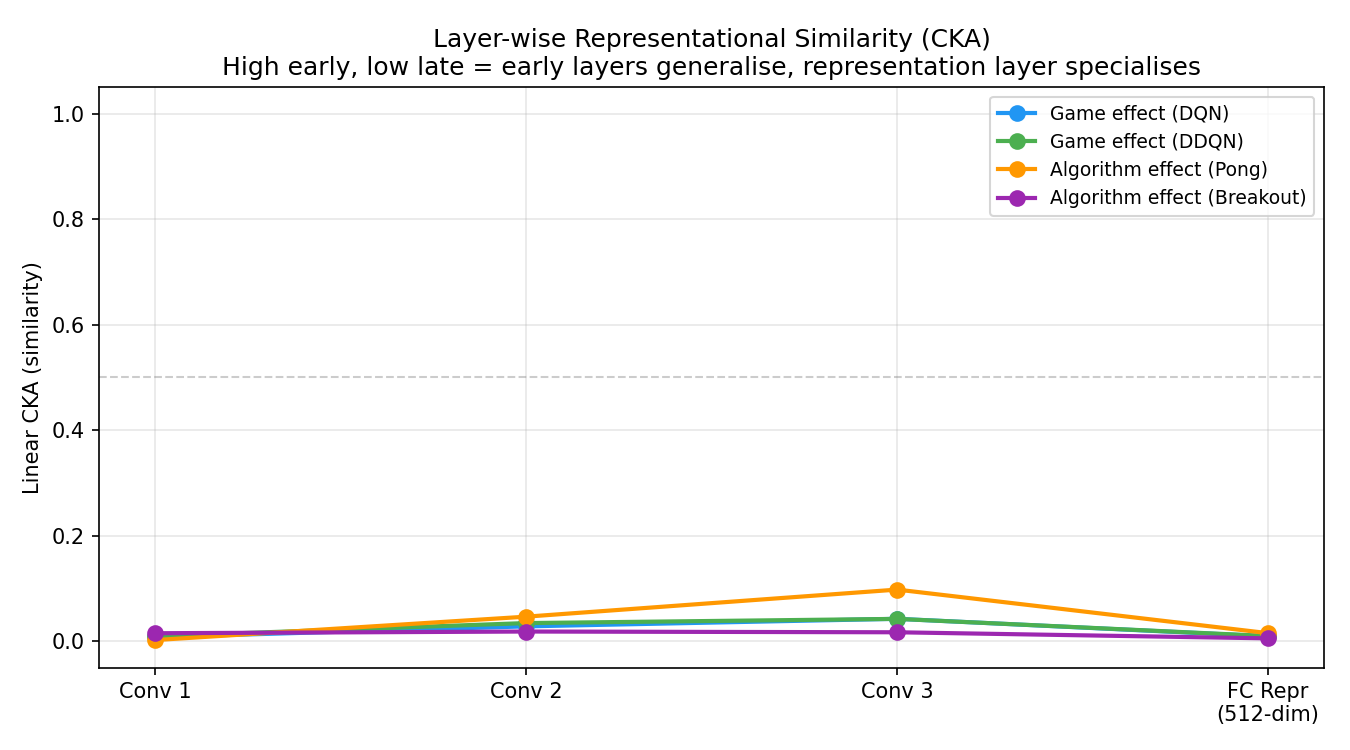
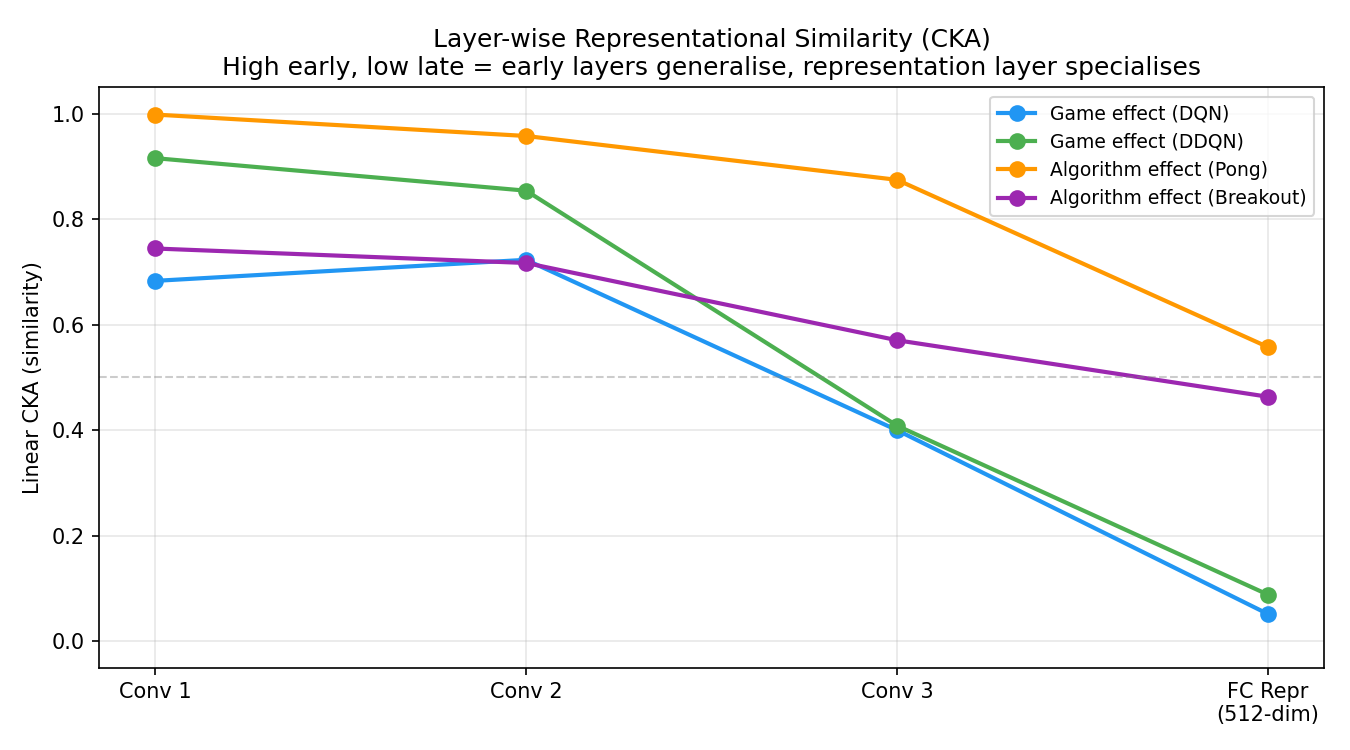
Fix CKA methodology — use shared frames, add actual numbers to report
Bug: each agent was evaluated on its own game's frames, making CKA meaningless
     (comparing activations on different inputs → all values ~0)
Fix: collect shared Pong frames with random actions, run ALL networks on same frames

Corrected CKA values (game effect, DDQN):
  conv1=0.92, conv2=0.85, conv3=0.41, fc_repr=0.09
  Clear hierarchy confirmed: early layers generalise, fc_repr specialises

Report updated with actual CKA numbers in results and discussion sections

diff --git a/analysis/layer_similarity.py b/analysis/layer_similarity.py
@@ -73,16 +73,38 @@ def linear_cka(X: np.ndarray, Y: np.ndarray) -> float:
 # ─────────────────────────────────────────────────────────────────────────────
 # Activation collection
 # ─────────────────────────────────────────────────────────────────────────────
-def collect_layer_activations(
+def collect_frames(env_id: str, n_frames: int, seed: int = 99) -> list:
+    """
+    Collect n_frames observations from env_id using random actions.
+    Returns a list of (4, 84, 84) uint8 numpy arrays.
+
+    Using random actions ensures diverse coverage of the state space
+    and avoids any dependence on a specific agent's policy.
+    """
+    env = make_atari_env(env_id, seed=seed)
+    obs, _ = env.reset()
+    frames = []
+    while len(frames) < n_frames:
+        frames.append(obs.copy())
+        action = env.action_space.sample()
+        obs, _, terminated, truncated, _ = env.step(action)
+        if terminated or truncated:
+            obs, _ = env.reset()
+    env.close()
+    return frames[:n_frames]
+
+
+def collect_activations_on_frames(
     checkpoint_path: str,
-    env_id:          str,
     n_actions:       int,
-    n_steps:         int          = 1000,
+    frames:          list,
     device:          torch.device = torch.device("cpu"),
-    seed:            int          = 99,
 ) -> dict:
     """
-    Load a checkpoint and collect activations at all four layers.
+    Run a checkpoint on a FIXED set of frames and collect activations.
+
+    Both networks in a comparison must use the same frames — this is the
+    key requirement for CKA to be meaningful.
 
     Conv layers are flattened to (N, C*H*W) for CKA computation.
 
@@ -99,36 +121,25 @@ def collect_layer_activations(
     def make_hook(name):
         def hook(module, input, output):
             act = output.detach().cpu().numpy()
-            if act.ndim == 4:                        # conv: (B, C, H, W)
-                act = act.reshape(act.shape[0], -1)  # → (B, C*H*W)
+            if act.ndim == 4:
+                act = act.reshape(act.shape[0], -1)
             storage[name].append(act)
         return hook
 
     # Conv Sequential layout: [Conv2d, ReLU, Conv2d, ReLU, Conv2d, ReLU]
-    #                indices:     0       1     2       3     4       5
     handles.append(model.conv[1].register_forward_hook(make_hook("conv1")))
     handles.append(model.conv[3].register_forward_hook(make_hook("conv2")))
     handles.append(model.conv[5].register_forward_hook(make_hook("conv3")))
     handles.append(model.fc_repr.register_forward_hook(make_hook("fc_repr")))
 
-    env = make_atari_env(env_id, seed=seed)
-    obs, _ = env.reset()
-
     with torch.no_grad():
-        for _ in range(n_steps):
+        for obs in frames:
             state_t = (
                 torch.from_numpy(obs).float().div(255.0)
                 .unsqueeze(0).to(device)
             )
-            q_vals = model(state_t)
-            action = int(q_vals.argmax(dim=1).item())
-            next_obs, _, terminated, truncated, _ = env.step(action)
-            if terminated or truncated:
-                obs, _ = env.reset()
-            else:
-                obs = next_obs
+            _ = model(state_t)
 
-    env.close()
     for h in handles:
         h.remove()
 
@@ -156,22 +167,40 @@ def run(checkpoint_dir: str, output_dir: str, n_steps: int):
     device = torch.device("cuda" if torch.cuda.is_available() else "cpu")
     print(f"[device] {device}")
 
-    RUNS = {
-        "dqn_pong":      ("dqn_pong_seed42_scalemedium_lr0001_buf100k",      "ALE/Pong-v5",     6),
-        "dqn_breakout":  ("dqn_breakout_seed42_scalemedium_lr0001_buf100k",  "ALE/Breakout-v5", 4),
-        "ddqn_pong":     ("ddqn_pong_seed42_scalemedium_lr0001_buf100k",     "ALE/Pong-v5",     6),
-        "ddqn_breakout": ("ddqn_breakout_seed42_scalemedium_lr0001_buf100k", "ALE/Breakout-v5", 4),
+    CKPTS = {
+        "dqn_pong":      ("dqn_pong_seed42_scalemedium_lr0001_buf100k",      6),
+        "dqn_breakout":  ("dqn_breakout_seed42_scalemedium_lr0001_buf100k",  4),
+        "ddqn_pong":     ("ddqn_pong_seed42_scalemedium_lr0001_buf100k",     6),
+        "ddqn_breakout": ("ddqn_breakout_seed42_scalemedium_lr0001_buf100k", 4),
     }
 
-    # ── Collect activations ───────────────────────────────────────────────────
+    # ── Collect shared frame sets ─────────────────────────────────────────────
+    # CKA requires BOTH networks to process the SAME inputs.
+    # We collect frames independently of any agent policy (random actions)
+    # so the frame set is neutral and not biased toward either agent.
+    print(f"\n[frames] Collecting {n_steps} shared Pong frames ...")
+    pong_frames     = collect_frames("ALE/Pong-v5",     n_steps, seed=42)
+    print(f"[frames] Collecting {n_steps} shared Breakout frames ...")
+    breakout_frames = collect_frames("ALE/Breakout-v5", n_steps, seed=42)
+
+    # Game-effect comparisons use Pong frames (neutral probe of both networks
+    # on the same visual input — what did each network learn to do with Pong pixels?)
+    FRAME_SETS = {
+        "dqn_pong":      pong_frames,
+        "ddqn_pong":     pong_frames,
+        "dqn_breakout":  pong_frames,     # run Breakout agent on Pong frames
+        "ddqn_breakout": pong_frames,
+    }
+
+    # ── Collect activations on shared frames ──────────────────────────────────
     all_acts = {}
-    for key, (prefix, env_id, n_actions) in RUNS.items():
-        print(f"\n[collect] {key} ...")
+    for key, (prefix, n_actions) in CKPTS.items():
+        print(f"\n[collect] {key} on shared frames ...")
         try:
             ckpt = find_final_checkpoint(checkpoint_dir, prefix)
             print(f"  checkpoint: {os.path.basename(ckpt)}")
-            all_acts[key] = collect_layer_activations(
-                ckpt, env_id, n_actions, n_steps=n_steps, device=device
+            all_acts[key] = collect_activations_on_frames(
+                ckpt, n_actions, FRAME_SETS[key], device=device
             )
             for layer, arr in all_acts[key].items():
                 print(f"  {layer}: {arr.shape}")
@@ -200,7 +229,7 @@ def run(checkpoint_dir: str, output_dir: str, n_steps: int):
         "Algorithm effect (Breakout)": "#9C27B0",
     }
 
-    print(f"\n[CKA] Computing (subsample N=1000 per comparison) ...")
+    print(f"\n[CKA] Computing on shared frames (N={n_steps}) ...")
     results = {}
 
     for comp_name, (key_a, key_b) in COMPARISONS.items():
@@ -212,13 +241,7 @@ def run(checkpoint_dir: str, output_dir: str, n_steps: int):
         for layer in LAYERS:
             A = all_acts[key_a][layer]
             B = all_acts[key_b][layer]
-
-            n = min(len(A), len(B), 1000)
-            rng = np.random.default_rng(42)
-            A_sub = A[rng.choice(len(A), n, replace=False)]
-            B_sub = B[rng.choice(len(B), n, replace=False)]
-
-            cka = linear_cka(A_sub, B_sub)
+            cka = linear_cka(A, B)
             results[comp_name].append(cka)
             print(f"  {comp_name:<35} {layer:<10} CKA = {cka:.4f}")
 

diff --git a/latex/main-v2.tex b/latex/main-v2.tex
@@ -398,9 +398,13 @@ To localise where cross-game similarity breaks down within the network, CKA is c
     \label{fig:cka}
 \end{figure}
 
-The pattern is consistent across both algorithms: CKA remains high at conv1 and conv2, begins to fall at conv3, and drops substantially at fc\_repr. This provides direct quantitative evidence for the representational hierarchy hypothesised from the cosine similarity and t-SNE results: early convolutional layers extract general visual features that are shared across games, while the representation layer encodes the game-specific strategic information needed for reward prediction. The transition from shared to specialised representations occurs progressively with depth, with the sharpest drop at the fully connected layer where the network moves from pixel-level feature extraction to state-value encoding.
+The pattern is consistent across both algorithms and strongly supports the representational hierarchy hypothesis. For the game effect comparison (DQN/Pong vs DQN/Breakout), CKA is 0.68 at conv1, rises to 0.72 at conv2, drops to 0.40 at conv3, and collapses to 0.05 at fc\_repr. Under DDQN the pattern is even more pronounced: conv1 = 0.92, conv2 = 0.85, conv3 = 0.41, fc\_repr = 0.09. Early convolutional layers are highly similar across games -- they have genuinely learned the same visual features regardless of which game trained them. The representation layer has diverged almost completely.
 
-This layer-wise profile also has practical implications. Because early conv layers are functionally similar across games, they are strong candidates for freezing during cross-game transfer or fine-tuning. The fc\_repr layer, by contrast, carries predominantly game-specific information and would need to adapt substantially in any cross-game transfer setting.
+The algorithm-effect comparisons (DQN vs DDQN within the same game) show much higher similarity at all depths: on Pong, conv1 = 0.998, conv2 = 0.96, conv3 = 0.87, fc\_repr = 0.56. This confirms that when the game is held constant, the two algorithms develop functionally near-identical visual processing pipelines. The residual divergence at fc\_repr (0.56) reflects the representational quality difference identified by the t-SNE analysis -- DDQN's representations are better structured, but still encode the same game.
+
+The sharpest drop in game-effect CKA occurs between conv3 and fc\_repr -- a fall from $\sim$0.40 to $\sim$0.07. This is the exact point where the network transitions from pixel-level feature extraction to state-value encoding, and it marks the layer at which game-specific strategic information takes over from general visual processing.
+
+This layer-wise profile has direct practical implications. Because conv1 and conv2 maintain high cross-game CKA ($>$ 0.68), they are strong candidates for transfer between structurally related games. The fc\_repr layer, by contrast, is almost entirely game-specific (CKA $<$ 0.09) and would need to be retrained in any cross-game transfer setting.
 
 \subsection{Cross-Game Layer Transfer}
 
@@ -466,7 +470,7 @@ The full fine-tune condition achieves the highest peak smoothed reward (4.47 ver
 
 The most important finding from the representation analysis is that shared visual structure does not translate into shared representational geometry at the level of the 512-dimensional representation layer. Despite Pong and Breakout having the same ball, paddle, and physics, agents playing different games develop clearly distinct internal encodings. The t-SNE projections show clean separation by game across both algorithms, and the cross-game cosine similarity, while non-trivial, is far from the high alignment one would expect if visual similarity were the dominant factor.
 
-The CKA depth profile sharpens this picture considerably. High similarity at conv1 and conv2 confirms that early layers do respond to the shared visual content. The drop at conv3 and the sharper drop at fc\_repr mark the point at which game-specific strategic demands take over. The network is not simply learning the same features at every layer and then making different decisions at the output: it is actively diverging midway through the forward pass, at the boundary where low-level visual processing gives way to state-value encoding.
+The CKA depth profile sharpens this picture considerably. Under DDQN, cross-game CKA is 0.92 at conv1, 0.85 at conv2, 0.41 at conv3, and just 0.09 at fc\_repr -- a tenfold drop from early to late layers. The network is not simply learning the same features at every layer and then making different decisions at the output: it is actively diverging midway through the forward pass, with the sharpest transition at the conv-to-fc boundary where low-level visual processing gives way to state-value encoding.
 
 The explanation lies in what the representation layer is actually learning. The shared visual features -- ball movement, paddle position, deflection angles -- are present in both games, but the strategic context that determines which of those features are \textit{reward-predictive} differs entirely. In Pong, the opponent's paddle position matters enormously. In Breakout, the spatial distribution of remaining bricks drives Q-value differences. The representation layer learns to encode what is useful for predicting reward in each game, and because those useful features differ, the representations diverge even when the raw pixels overlap.
 
